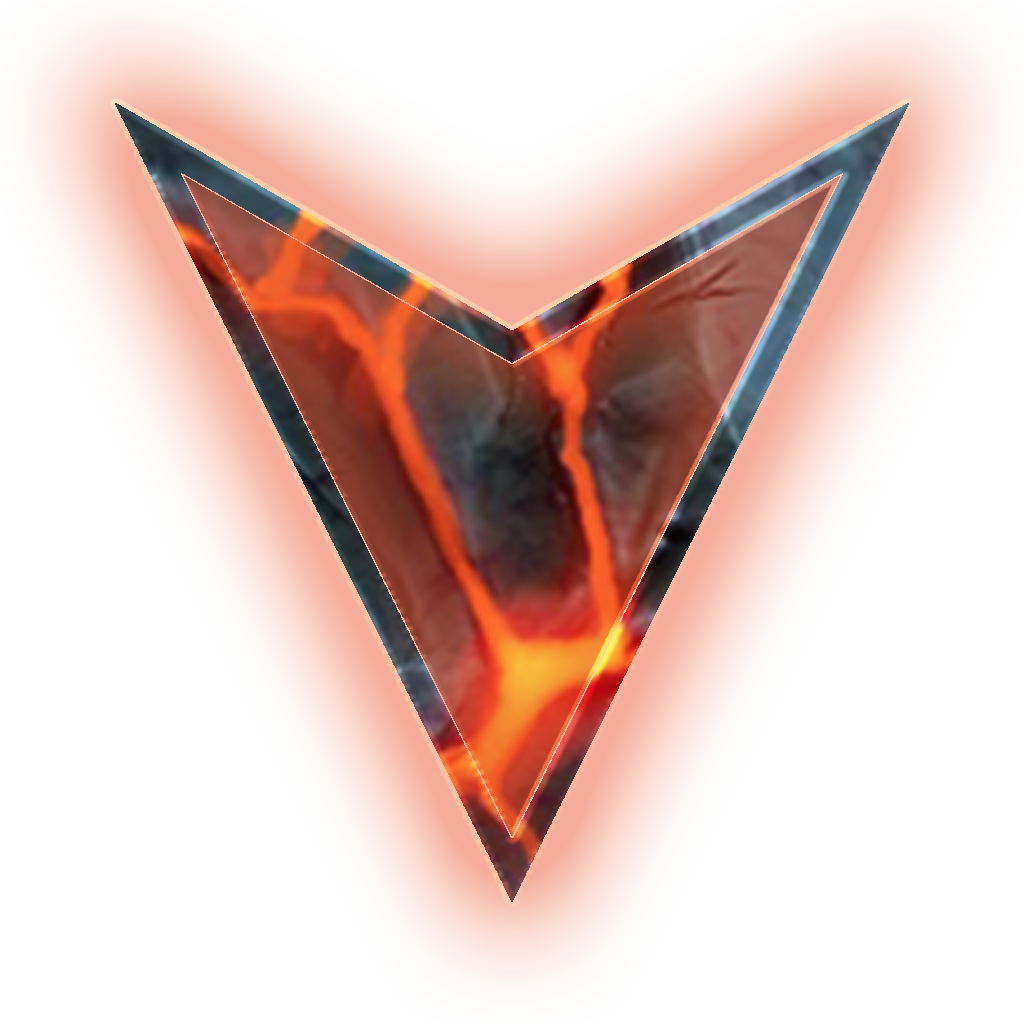
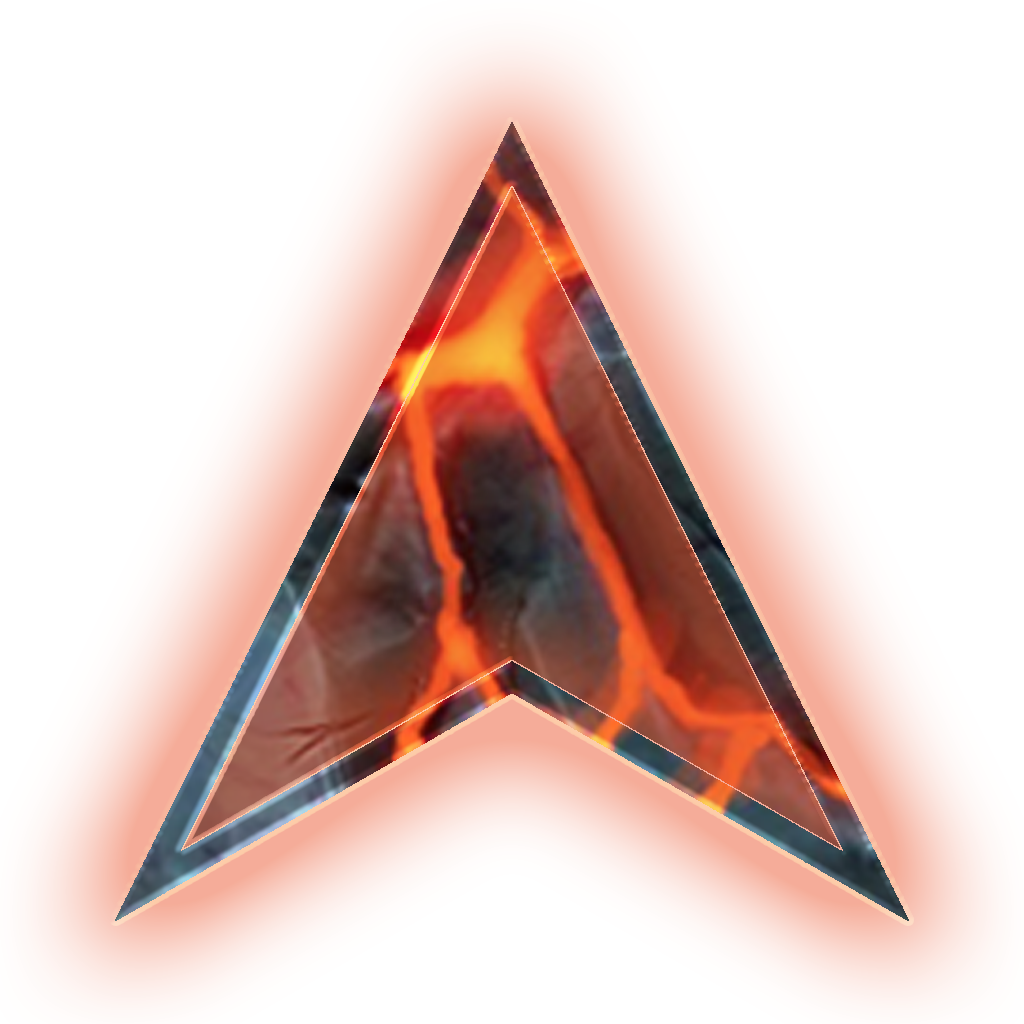
adds new cursor

diff --git a/src/App.vue b/src/App.vue
@@ -31,7 +31,8 @@ body {
 
     background-color: $eerie-black;
     background-image: url('./assets/space.jpg');
-    cursor: url('./assets/cursor.png') default;
+    cursor: none;
+    cursor: url('./assets/maincursor.png'), pointer;
     background-blend-mode: color-dodge;
     color: $azureish-white;
     height: 100%;

diff --git a/src/components/Home.vue b/src/components/Home.vue
@@ -104,7 +104,7 @@ export default {
     animation-name: animatespaceship;
     animation-duration: 0.2s;
     animation-iteration-count: infinite;
-    
+    cursor: pointer;
   }
 }
 
